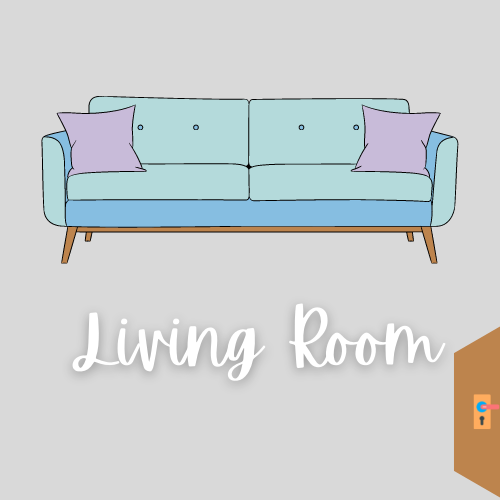
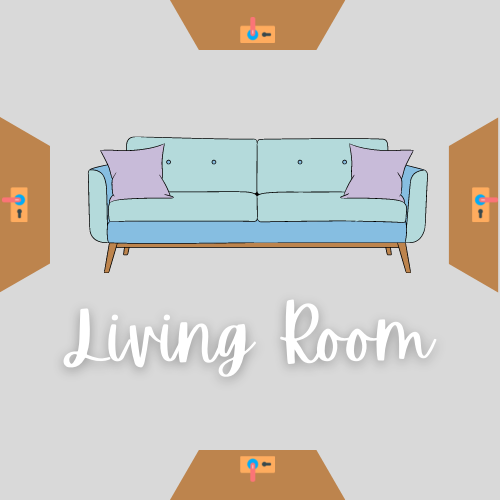
- map for escape room - navbar - url paths - example.html contains advisor's code

diff --git a/templates/game.html b/templates/game.html
@@ -6,6 +6,11 @@
   <title>Game | Gaming4Good</title>
   <!-- stylesheets -->
     <link rel="stylesheet" href="https://maxcdn.bootstrapcdn.com/bootstrap/3.3.7/css/bootstrap.min.css">
+    <link rel="stylesheet" href="/static/style.css">
+  <!-- Google Fonts API -->
+    <link rel="preconnect" href="https://fonts.googleapis.com">
+    <link rel="preconnect" href="https://fonts.gstatic.com" crossorigin>
+    <link href="https://fonts.googleapis.com/css2?family=Raleway&family=Roboto:wght@300&display=swap" rel="stylesheet">
   <!-- bootstrap navbar -->
   <nav class="navbar navbar-inverse">
   <div class="container-fluid">
@@ -19,9 +24,39 @@
     </ul>
   </div>
 </nav>
+<style>
+  td{
+    width: 33.33%
+  }
+</style>
 </head>
 <body>
-  <p style= "margin-left: 50px">this is the game page</p>
-  <img src="../static/images/living.png" alt="Living room">
+  <!--<p style= "margin-left: 50px">this is the game page</p>
+  <img src="../static/images/living.png" alt="Living room">-->
+  <div style="margin-left: 50px; margin-right: 50px;" class="box">
+    <p>Welcome to gaming4good. If you are seeing this message, you have been trapped in a mysterious mansion which you must escape in order to expose the real secret behind the mansion's creation. Solve puzzles to gain access to every room in the mansion, and don't forget to thoroughly check every room in case the exit door in located there.</p>
+  </div>
+  <table style="margin-bottom: 100px; margin-top: 100px; margin-left:auto; margin-right: auto">
+    <tr>
+      <td></td>
+      <td><img class="image" src="../static/images/tea.png" alt="Tea parlor"></td>
+      <td></td>
+    </tr>
+    <tr>
+      <td><img class="image" src="../static/images/garage.png" alt="Garage"></td>
+      <td><img class="image" src="../static/images/living.png" alt="Living room"></td>
+      <td><img class="image" src="../static/images/gameroom.png" alt="Game room"></td>
+    </tr>
+    <tr>
+      <td><img class="image" src="../static/images/study.png" alt="Study room"></td>
+      <td><img class="image" src="../static/images/dining.png" alt="Dining room"></td>
+      <td><img class="image" src="../static/images/bedroom.png" alt="Bedroom"></td>
+    </tr>
+    <tr>
+      <td></td>
+      <td><img class="image" src="../static/images/kitchen.png" alt="Kitchen"></td>
+      <td></td>
+    </tr>
+  </table>
 </body>
 </html>

diff --git a/templates/example.html b/templates/example.html
@@ -1,0 +1,43 @@
+<!DOCTYPE html>
+<html>
+  <body>
+    <script type="text/javascript">
+      let roomIn = 0;
+
+      function displayAlert() {
+        alert("test");
+      }
+
+      function askQuestion() {
+        const answer = prompt("What is 2+2");
+        if (answer === "4" && roomIn === 0) {
+          roomIn = 1;
+          updateRoom();
+          alert("Congrats, you have moved to room 1");
+        } else {
+          alert("Sorry, not allowed");
+        }
+      }
+
+      function moveDirection(direction) {
+        alert("You are moving: " + direction);
+      }
+
+      function updateRoom() {
+        document.getElementById("room-number").innerText = roomIn;
+      }
+
+      // You can use DOM (Document Object Model)
+    </script>
+    <div>Current room: <span id="room-number"></span></div>
+    <button type="button" onclick="askQuestion()">Click me</button>
+    <button type="button" onclick="moveDirection('N')">N</button>
+    <button type="button" onclick="moveDirection('S')">S</button>
+    <button type="button" onclick="moveDirection('W')">W</button>
+    <button type="button" onclick="moveDirection('E')">E</button>
+
+    <script type="text/javascript">
+      updateRoom();
+    </script>
+  </body>
+</html>

diff --git a/static/style.css b/static/style.css
@@ -1,0 +1,27 @@
+.box {
+    background-color: #f0fdff;
+    box-shadow: hsl(0, 0%, 80%) 0 0 16px;
+    border-radius: 4px;
+    padding-top: 20px;
+    padding-bottom: 20px;
+    padding-right: 50px;
+    padding-left: 50px;
+}
+
+body {
+    font-family: 'Roboto', sans-serif;
+    font-size: 18px;
+}
+
+h1 {
+    font-family: 'Raleway', sans-serif !important;
+}
+
+h3 {
+    font-family: 'Raleway', sans-serif !important;
+}
+
+.image{
+  height:300px;
+  width: 300px;
+}

diff --git a/templates/index.html b/templates/index.html
@@ -6,6 +6,7 @@
   <title>Gaming4Good</title>
   <!-- stylesheets -->
     <link rel="stylesheet" href="https://maxcdn.bootstrapcdn.com/bootstrap/3.3.7/css/bootstrap.min.css">
+    <link rel="stylesheet" href="/static/style.css">
   <!-- bootstrap navbar -->
   <nav class="navbar navbar-inverse">
   <div class="container-fluid">
